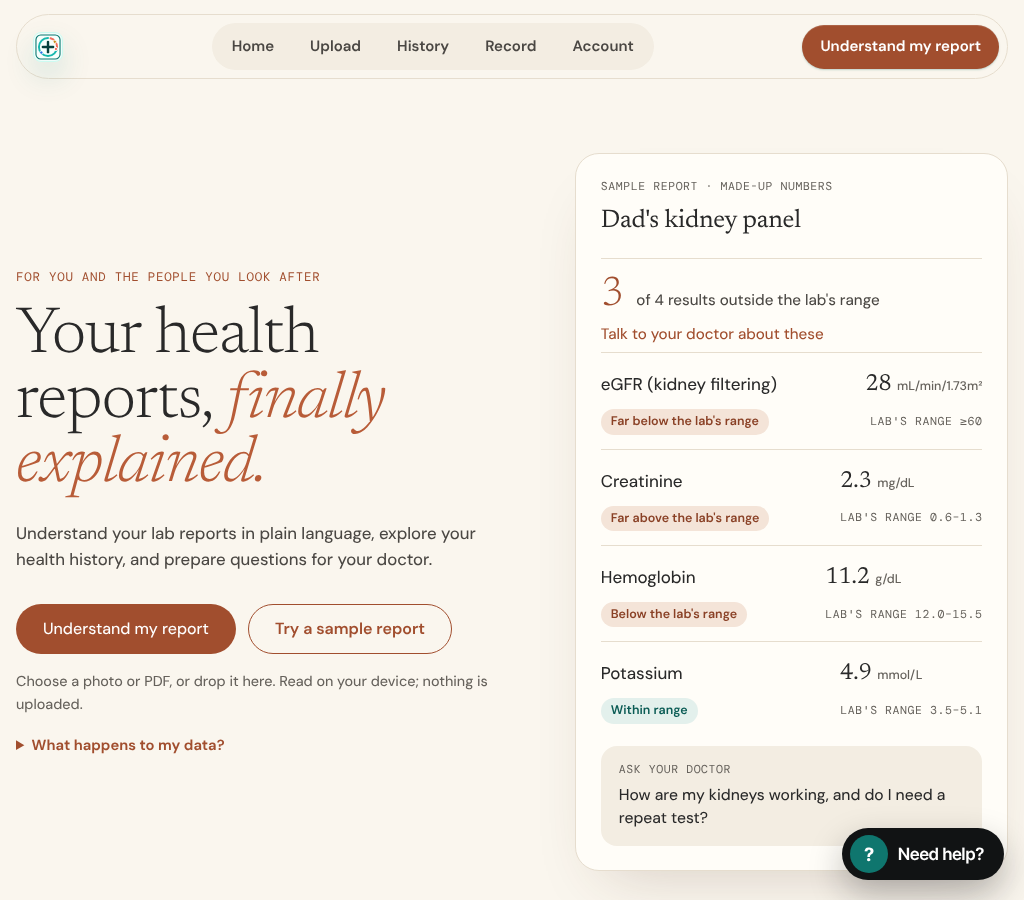
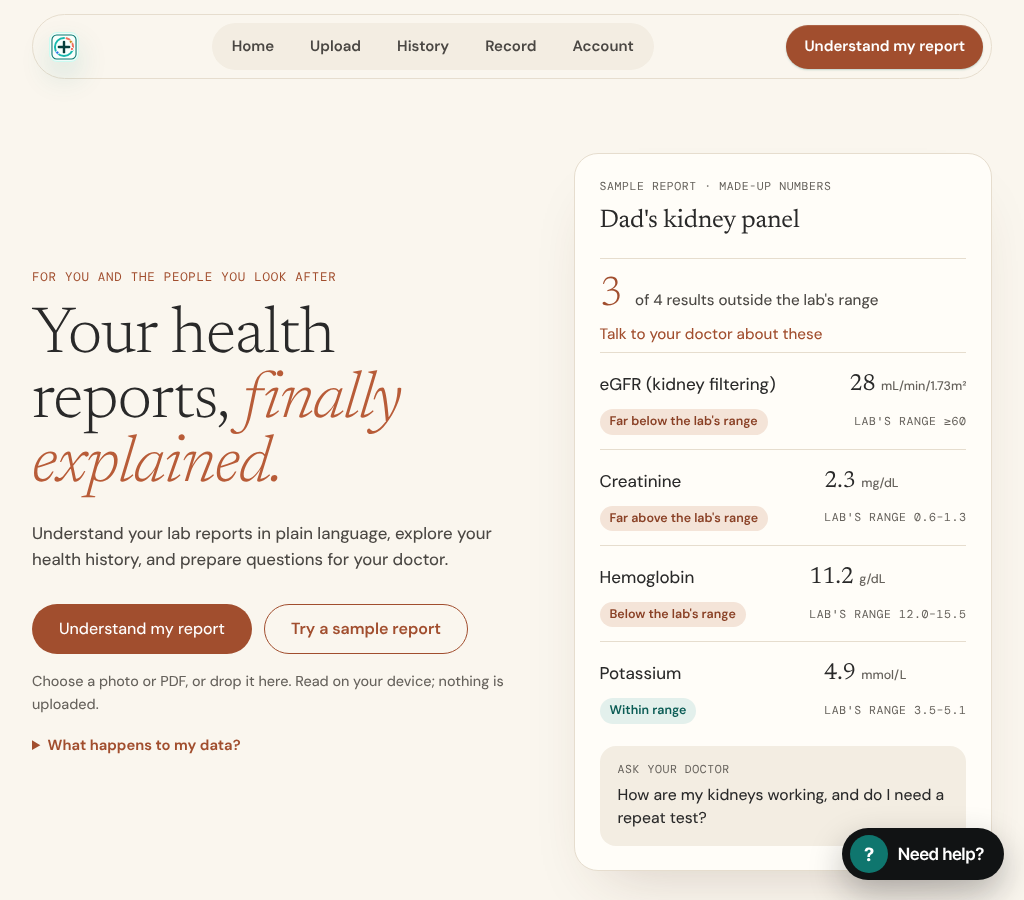
Polish: brand-only phone header, wider tablet margins, tablet screenshots
- Phones (<=720px): the header keeps the brand only. The cut-down
  "Understand" button is gone; "Understand my report" stays as the hero's
  first button and the Upload tab. design-quality eval: the brand name is
  never clipped, and never covered when the button is shown.
- Tablets (721-1279px): side margin 16px -> 32px.
- Doc: 1024/768 shots of DocBridge, trust and pricing; 320 header
  before/after; hero shots recaptured. Cache 224.

Claude-Session: https://claude.ai/code/session_01AP2LbSGpvoUJpvKcXMRFes

diff --git a/index.html b/index.html
@@ -16,15 +16,15 @@
     <meta name="theme-color" content="#0f766e" />
     <meta name="apple-mobile-web-app-capable" content="yes" />
     <meta name="apple-mobile-web-app-title" content="FollowThrough Health" />
-    <link rel="manifest" href="manifest.webmanifest?v=carewise-product-223" />
+    <link rel="manifest" href="manifest.webmanifest?v=carewise-product-224" />
     <link rel="apple-touch-icon" href="assets/carewise-app-icon.svg" />
     <link rel="preconnect" href="https://fonts.googleapis.com" />
     <link rel="preconnect" href="https://fonts.gstatic.com" crossorigin />
     <link rel="stylesheet" href="https://fonts.googleapis.com/css2?family=DM+Mono&family=DM+Sans:opsz,wght@9..40,400..700&family=Newsreader:ital,wght@0,300;0,400;1,300&display=swap" />
     <link rel="preload" href="assets/fonts/inter-tight-latin-600-normal.woff2" as="font" type="font/woff2" crossorigin />
-    <link rel="stylesheet" href="styles.css?v=carewise-product-223" />
-    <link rel="stylesheet" href="ui.css?v=carewise-product-223" />
-    <link rel="stylesheet" href="site.css?v=carewise-product-223" />
+    <link rel="stylesheet" href="styles.css?v=carewise-product-224" />
+    <link rel="stylesheet" href="ui.css?v=carewise-product-224" />
+    <link rel="stylesheet" href="site.css?v=carewise-product-224" />
   </head>
   <body>
     <main class="app-shell">
@@ -2374,15 +2374,15 @@
         <p class="help-chat-fine" id="help-chat-fine">General help, not medical advice. In an emergency call 911.</p>
       </section>
     </div>
-    <script src="script.js?v=carewise-product-223"></script>
-    <script src="help.js?v=carewise-product-223"></script>
-    <script src="guide.js?v=carewise-product-223"></script>
-    <script src="story.js?v=carewise-product-223"></script>
-    <script src="doctor-share.js?v=carewise-product-223"></script>
-    <script src="docbridge.js?v=carewise-product-223"></script>
-    <script src="reminders.js?v=carewise-product-223"></script>
-    <script src="vendor/qrcode.js?v=carewise-product-223"></script>
-    <script src="twofactor.js?v=carewise-product-223"></script>
-    <script src="account-ui.js?v=carewise-product-223"></script>
+    <script src="script.js?v=carewise-product-224"></script>
+    <script src="help.js?v=carewise-product-224"></script>
+    <script src="guide.js?v=carewise-product-224"></script>
+    <script src="story.js?v=carewise-product-224"></script>
+    <script src="doctor-share.js?v=carewise-product-224"></script>
+    <script src="docbridge.js?v=carewise-product-224"></script>
+    <script src="reminders.js?v=carewise-product-224"></script>
+    <script src="vendor/qrcode.js?v=carewise-product-224"></script>
+    <script src="twofactor.js?v=carewise-product-224"></script>
+    <script src="account-ui.js?v=carewise-product-224"></script>
   </body>
 </html>

diff --git a/sw.js b/sw.js
@@ -1,22 +1,22 @@
-const CAREWISE_CACHE = "carewise-shell-v223";
+const CAREWISE_CACHE = "carewise-shell-v224";
 const STATIC_ASSETS = [
   "/",
   "/index.html",
   "/demo.html",
-  "/styles.css?v=carewise-product-223",
-  "/ui.css?v=carewise-product-223",
-  "/site.css?v=carewise-product-223",
-  "/script.js?v=carewise-product-223",
-  "/help.js?v=carewise-product-223",
-  "/guide.js?v=carewise-product-223",
-  "/story.js?v=carewise-product-223",
-  "/doctor-share.js?v=carewise-product-223",
-  "/docbridge.js?v=carewise-product-223",
-  "/reminders.js?v=carewise-product-223",
-  "/vendor/qrcode.js?v=carewise-product-223",
-  "/twofactor.js?v=carewise-product-223",
-  "/account-ui.js?v=carewise-product-223",
-  "/manifest.webmanifest?v=carewise-product-223",
+  "/styles.css?v=carewise-product-224",
+  "/ui.css?v=carewise-product-224",
+  "/site.css?v=carewise-product-224",
+  "/script.js?v=carewise-product-224",
+  "/help.js?v=carewise-product-224",
+  "/guide.js?v=carewise-product-224",
+  "/story.js?v=carewise-product-224",
+  "/doctor-share.js?v=carewise-product-224",
+  "/docbridge.js?v=carewise-product-224",
+  "/reminders.js?v=carewise-product-224",
+  "/vendor/qrcode.js?v=carewise-product-224",
+  "/twofactor.js?v=carewise-product-224",
+  "/account-ui.js?v=carewise-product-224",
+  "/manifest.webmanifest?v=carewise-product-224",
   "/legal/privacy.html",
   "/legal/terms.html",
   "/legal/disclaimer.html",

diff --git a/share.html b/share.html
@@ -8,7 +8,7 @@
     <meta name="referrer" content="no-referrer" />
     <title>FollowThrough Health shared summary</title>
     <link rel="icon" href="assets/carewise-app-icon.svg" />
-    <link rel="stylesheet" href="share.css?v=carewise-product-223" />
+    <link rel="stylesheet" href="share.css?v=carewise-product-224" />
   </head>
   <body>
     <main class="sv">
@@ -26,6 +26,6 @@
         <p>Shared read-only by a patient or family caregiver using FollowThrough Health. Educational summary only, not a diagnosis. Values were read automatically from the report text; please confirm them against the original report.</p>
       </footer>
     </main>
-    <script src="share-view.js?v=carewise-product-223"></script>
+    <script src="share-view.js?v=carewise-product-224"></script>
   </body>
 </html>

diff --git a/site.css b/site.css
@@ -104,6 +104,17 @@ body { background: var(--fh-paper) !important; color: var(--fh-ink); }
   .site-nav .topbar-actions { flex-wrap: nowrap; }
 }
 
+/* Phones: the header keeps the brand only. The "Understand my report" button would be cut to
+   "Understand"; the same action is the hero's first button and the Upload tab in the bottom bar. */
+@media (max-width: 720px) {
+  .site-nav .nav-cta { display: none !important; }
+}
+
+/* Tablets: a wider side margin than phones (16px felt cramped at 768-1024). */
+@media (min-width: 721px) and (max-width: 1279px) {
+  main.app-shell { padding-left: 32px !important; padding-right: 32px !important; }
+}
+
 /* ---------- Sections ---------- */
 .fh-section { padding: var(--fh-section) 0 0; }
 .fh-final { padding-bottom: var(--fh-section); }

diff --git a/demo.html b/demo.html
@@ -8,7 +8,7 @@
     <meta name="description" content="Try FollowThrough Health in 3 minutes with a made-up lab or scan report. No sign-up. See the plain-English explanation, the doctor brief, questions to ask and a reminder for the next test." />
     <link rel="canonical" href="https://followthroughhealth.com/demo.html" />
     <link rel="icon" href="assets/carewise-app-icon.svg" />
-    <link rel="stylesheet" href="share.css?v=carewise-product-223" />
+    <link rel="stylesheet" href="share.css?v=carewise-product-224" />
     <style>
       .dm-samples { display: grid; grid-template-columns: repeat(3, minmax(0, 1fr)); gap: 12px; }
       .dm-sample { border: 1px solid var(--line); border-radius: 14px; padding: 14px; display: flex; flex-direction: column; gap: 6px; }

diff --git a/safety.html b/safety.html
@@ -8,7 +8,7 @@
     <meta name="description" content="How FollowThrough Health keeps report explanations careful: what it does, what it never does, how it is tested, and its limits." />
     <link rel="canonical" href="https://followthroughhealth.com/safety.html" />
     <link rel="icon" href="assets/carewise-app-icon.svg" />
-    <link rel="stylesheet" href="share.css?v=carewise-product-223" />
+    <link rel="stylesheet" href="share.css?v=carewise-product-224" />
     <style>
       .pg-nav { display: flex; flex-wrap: wrap; gap: 6px 14px; font-size: 0.95rem; }
       .pg-nav a { color: var(--ink); text-decoration: none; padding: 6px 0; }

diff --git a/packet.html b/packet.html
@@ -8,7 +8,7 @@
     <meta name="referrer" content="no-referrer" />
     <title>Your lab results explained</title>
     <link rel="icon" href="assets/carewise-app-icon.svg" />
-    <link rel="stylesheet" href="share.css?v=carewise-product-223" />
+    <link rel="stylesheet" href="share.css?v=carewise-product-224" />
   </head>
   <body>
     <main class="sv">
@@ -27,6 +27,6 @@
         <p>Powered by FollowThrough Health. Ask your doctor about using it.</p>
       </footer>
     </main>
-    <script src="packet-view.js?v=carewise-product-223"></script>
+    <script src="packet-view.js?v=carewise-product-224"></script>
   </body>
 </html>

diff --git a/faq.html b/faq.html
@@ -8,7 +8,7 @@
     <meta name="description" content="Answers about FollowThrough Health: which reports it reads, cost, privacy, accuracy, family members and deleting your data." />
     <link rel="canonical" href="https://followthroughhealth.com/faq.html" />
     <link rel="icon" href="assets/carewise-app-icon.svg" />
-    <link rel="stylesheet" href="share.css?v=carewise-product-223" />
+    <link rel="stylesheet" href="share.css?v=carewise-product-224" />
     <style>
       .pg-nav { display: flex; flex-wrap: wrap; gap: 6px 14px; font-size: 0.95rem; }
       .pg-nav a { color: var(--ink); text-decoration: none; padding: 6px 0; }

diff --git a/accessibility.html b/accessibility.html
@@ -8,7 +8,7 @@
     <meta name="description" content="FollowThrough Health accessibility statement: our goal, what we test, known limits and how to report a problem." />
     <link rel="canonical" href="https://followthroughhealth.com/accessibility.html" />
     <link rel="icon" href="assets/carewise-app-icon.svg" />
-    <link rel="stylesheet" href="share.css?v=carewise-product-223" />
+    <link rel="stylesheet" href="share.css?v=carewise-product-224" />
     <style>
       .pg-nav { display: flex; flex-wrap: wrap; gap: 6px 14px; font-size: 0.95rem; }
       .pg-nav a { color: var(--ink); text-decoration: none; padding: 6px 0; }

diff --git a/support.html b/support.html
@@ -8,7 +8,7 @@
     <meta name="description" content="Get help with FollowThrough Health: reading a report, your account, deleting data, reminders and contacting the team." />
     <link rel="canonical" href="https://followthroughhealth.com/support.html" />
     <link rel="icon" href="assets/carewise-app-icon.svg" />
-    <link rel="stylesheet" href="share.css?v=carewise-product-223" />
+    <link rel="stylesheet" href="share.css?v=carewise-product-224" />
     <style>
       .pg-nav { display: flex; flex-wrap: wrap; gap: 6px 14px; font-size: 0.95rem; }
       .pg-nav a { color: var(--ink); text-decoration: none; padding: 6px 0; }

diff --git a/about.html b/about.html
@@ -8,7 +8,7 @@
     <meta name="description" content="FollowThrough Health helps families understand a parent&#x27;s lab report and follow through with their doctor." />
     <link rel="canonical" href="https://followthroughhealth.com/about.html" />
     <link rel="icon" href="assets/carewise-app-icon.svg" />
-    <link rel="stylesheet" href="share.css?v=carewise-product-223" />
+    <link rel="stylesheet" href="share.css?v=carewise-product-224" />
     <style>
       .pg-nav { display: flex; flex-wrap: wrap; gap: 6px 14px; font-size: 0.95rem; }
       .pg-nav a { color: var(--ink); text-decoration: none; padding: 6px 0; }

diff --git a/docs/function-style-complete-redesign.md b/docs/function-style-complete-redesign.md
@@ -256,12 +256,33 @@ In these shots, "We couldn't check your account right now" appears because the m
 
 Tests after this pass (cache version 223): all 34 CI commands pass (including the accessibility scan with axe), CSP passes with and without headers, and the smoke test passes.
 
-## 15. Pending
+## 15. Polish pass: phone header, tablet margins, tablet shots (11 Nov 2026)
+
+- **Phone header:** on phones the header button showed only "Understand", because the full label did not fit. At 720px and below, the header now shows just the brand. "Understand my report" is still the hero's first button, directly below, and is also the Upload tab in the bottom bar. The design-quality eval now checks that the brand name is never clipped, and that it is never covered when the button is shown.
+- **Tablet margins:** at 721–1279px the side margin grows from 16px to 32px. At 1024px the content used to sit 16px from the edge, next to 120px at 1440.
+- **Tablet screenshots** (after only; nothing was captured at these widths before the rebuild):
+
+| | 1024 | 768 |
+|---|---|---|
+| DocBridge (for doctors) | ![](function-redesign/after-doctors-1024.png) | ![](function-redesign/after-doctors-768.png) |
+| Trust | ![](function-redesign/after-trust-1024.png) | ![](function-redesign/after-trust-768.png) |
+| Pricing | ![](function-redesign/after-pricing-1024.png) | ![](function-redesign/after-pricing-768.png) |
+
+| Header 320 before | Header 320 after |
+|---|---|
+| ![](function-redesign/header-before-320.png) | ![](function-redesign/header-after-320.png) |
+
+The hero screenshots at every width (section 4, "after") were captured again with these changes. Where the sticky header crosses a section shot, it is a capture effect.
+
+**Found but not changed:** the DocBridge demo video is a real screen recording of the old teal design. Re-recording it needs the clinician demo running end to end, so it is listed under Pending.
+
+Tests after this pass (cache version 224): all 34 CI commands pass (including the accessibility scan with axe), CSP passes with and without headers, and the smoke test passes.
+
+## 16. Pending
 
 - **App screens**: Results is done (section 9). Upload (section 10) and original-report evidence plus doctor brief (section 11) are done. History, Record and Reminders (section 12) are done too. DocBridge, Sign-in and the AI guide are covered in section 13. The signed-in Account view is covered in section 14.
   - The secondary tools (meal planner, symptom timeline, 4-week calendar, goals, visit brief, check-in, medication organizer) were audited on 10 Nov 2026 at 1440 and 390. None of them render: `styles.css` line 3882 hides `.meal-planner-panel`, `.symptom-panel`, `.goals-panel` and the rest, on main as well as on this branch. Users cannot reach them, so there is nothing to restyle. If any of them is turned back on, it will need its own styling pass.
-- **Screenshots**: before/after shots of the homepage DocBridge, pricing and trust sections at 1024/768 have not been captured for this document.
+- **DocBridge demo video:** it still shows the old teal interface and needs a new recording of the doctor demo in the new design.
 - **Reference screenshots**: the three the brief mentions never arrived. If they are re-sent, the comparison, FAQ and footer will be checked against them.
 - **Accessibility scan**: investigate the one unreproduced axe failure if it shows up in the nightly scan.
-- **Header at 320px**: the button shows only "Understand". The full label is kept as its accessible name.
 - **Not done here**: real-device testing, deploying and merging. Those are the owner's.
